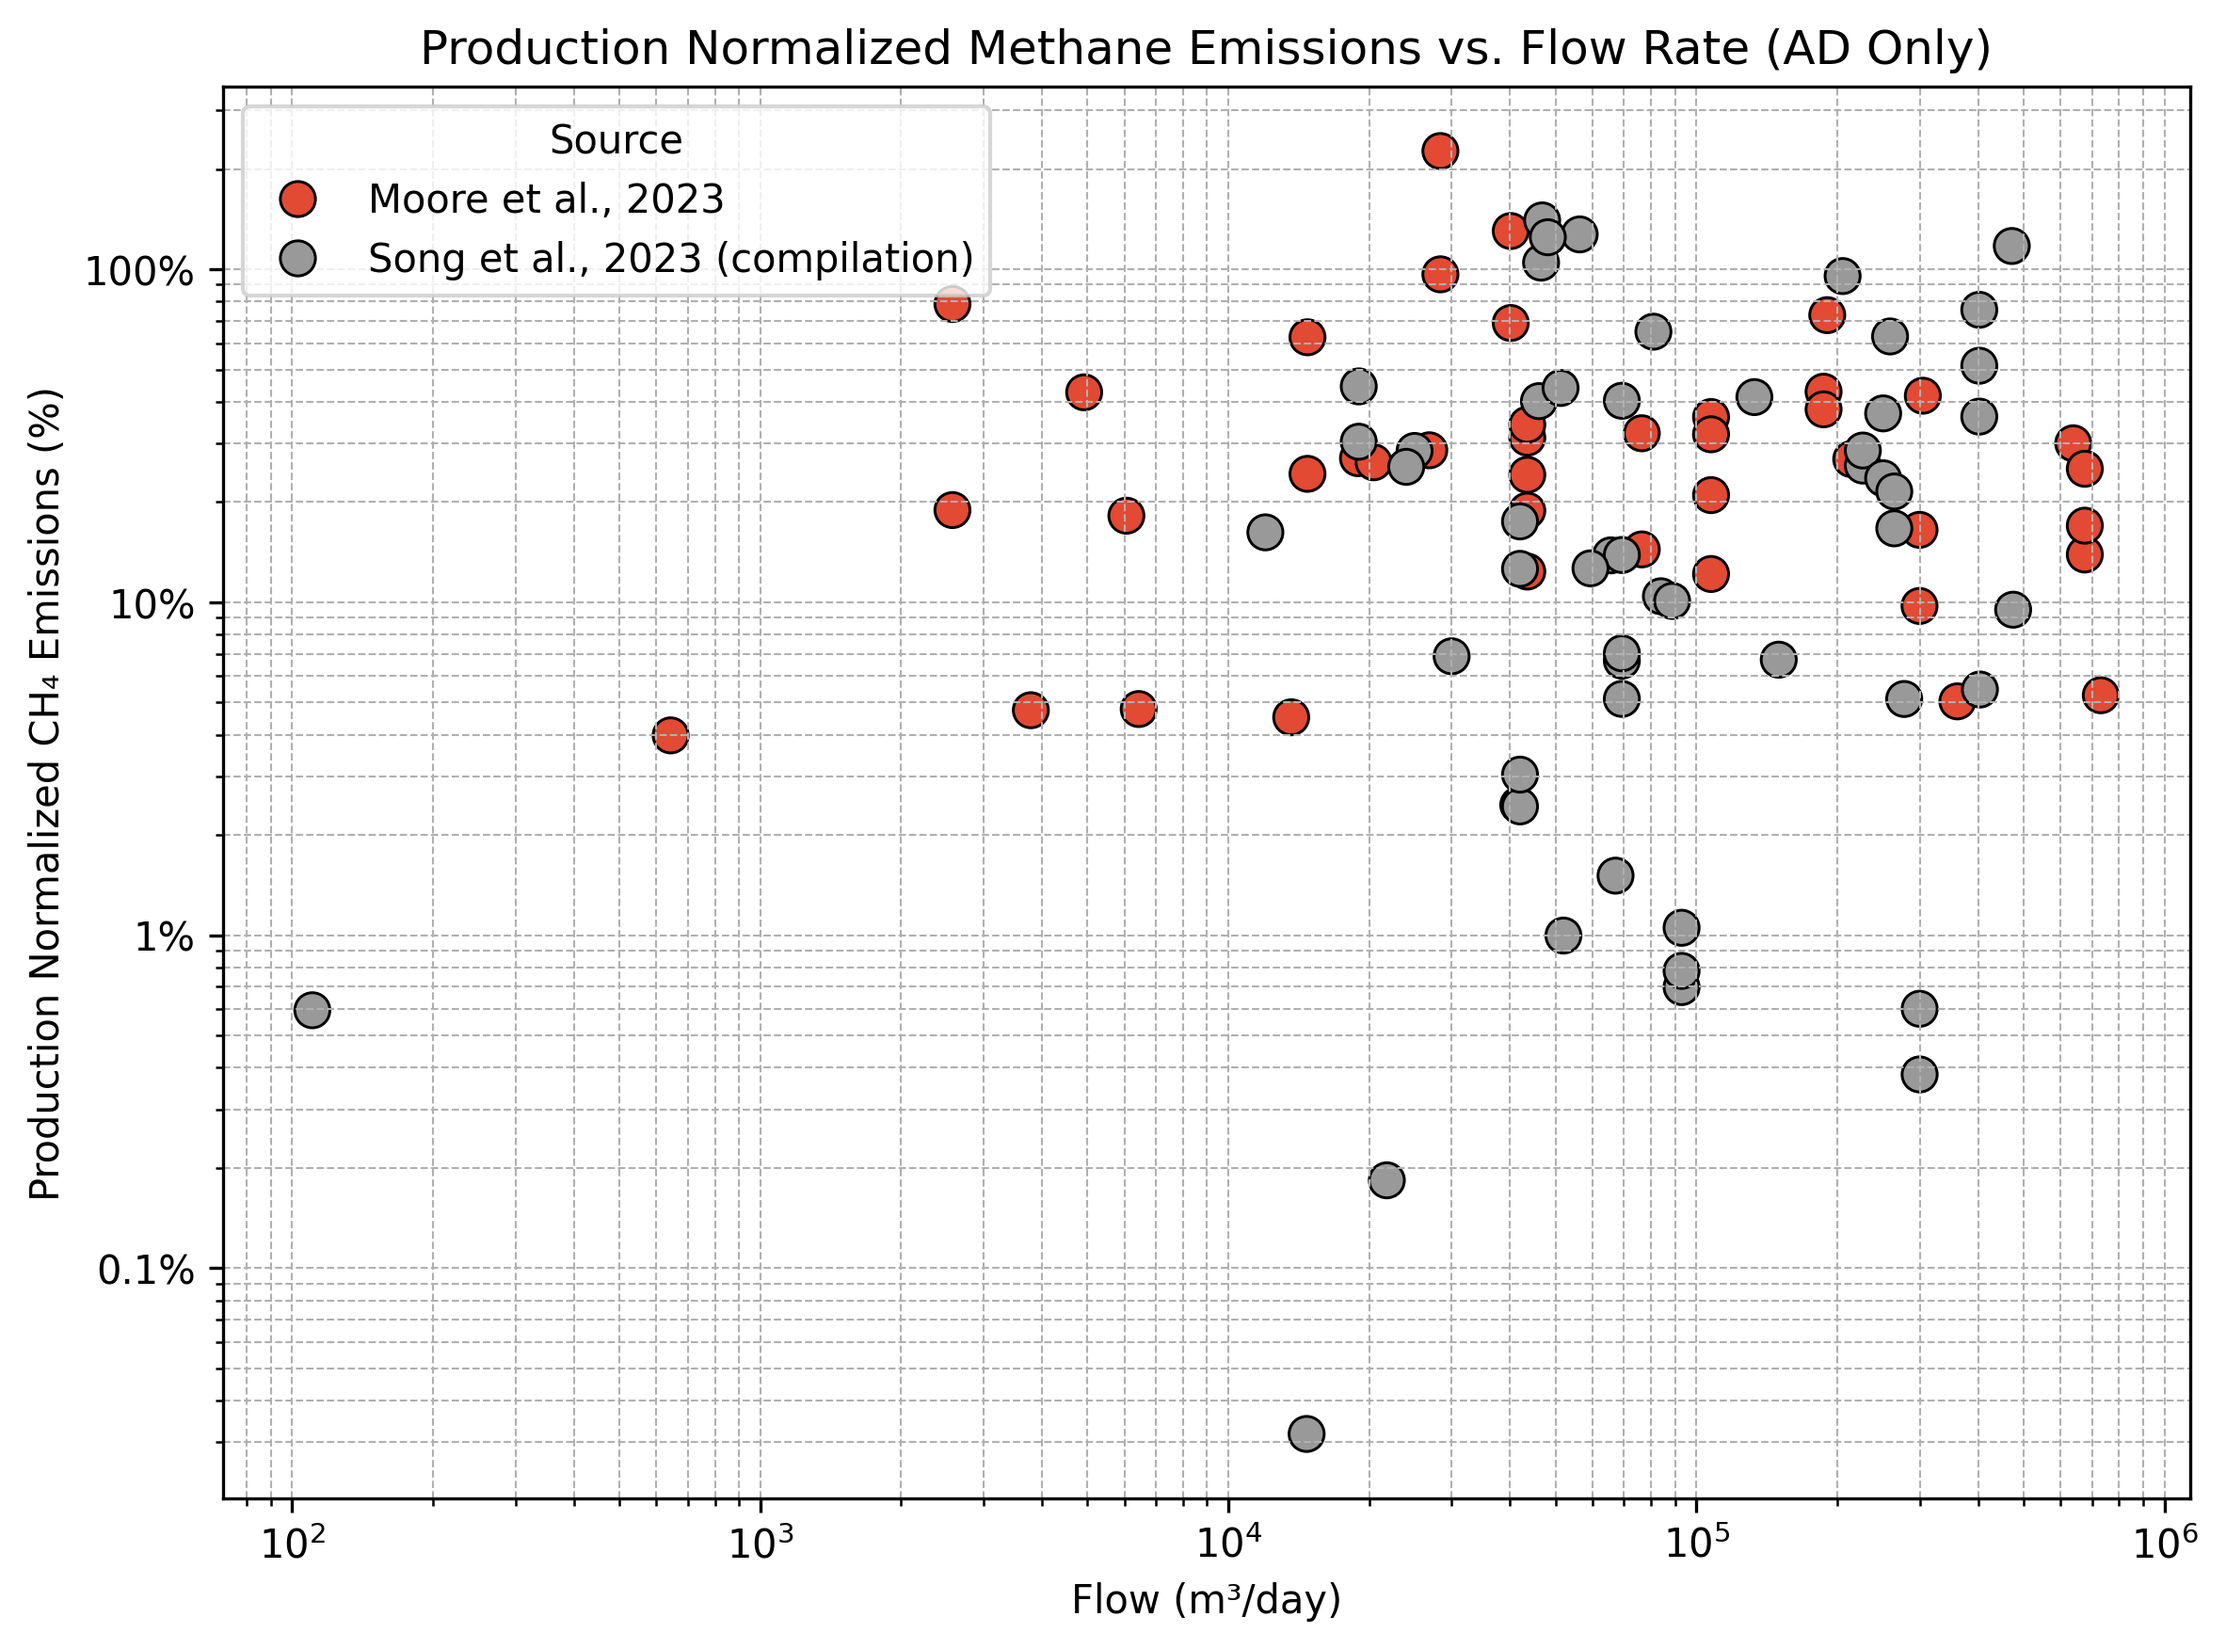
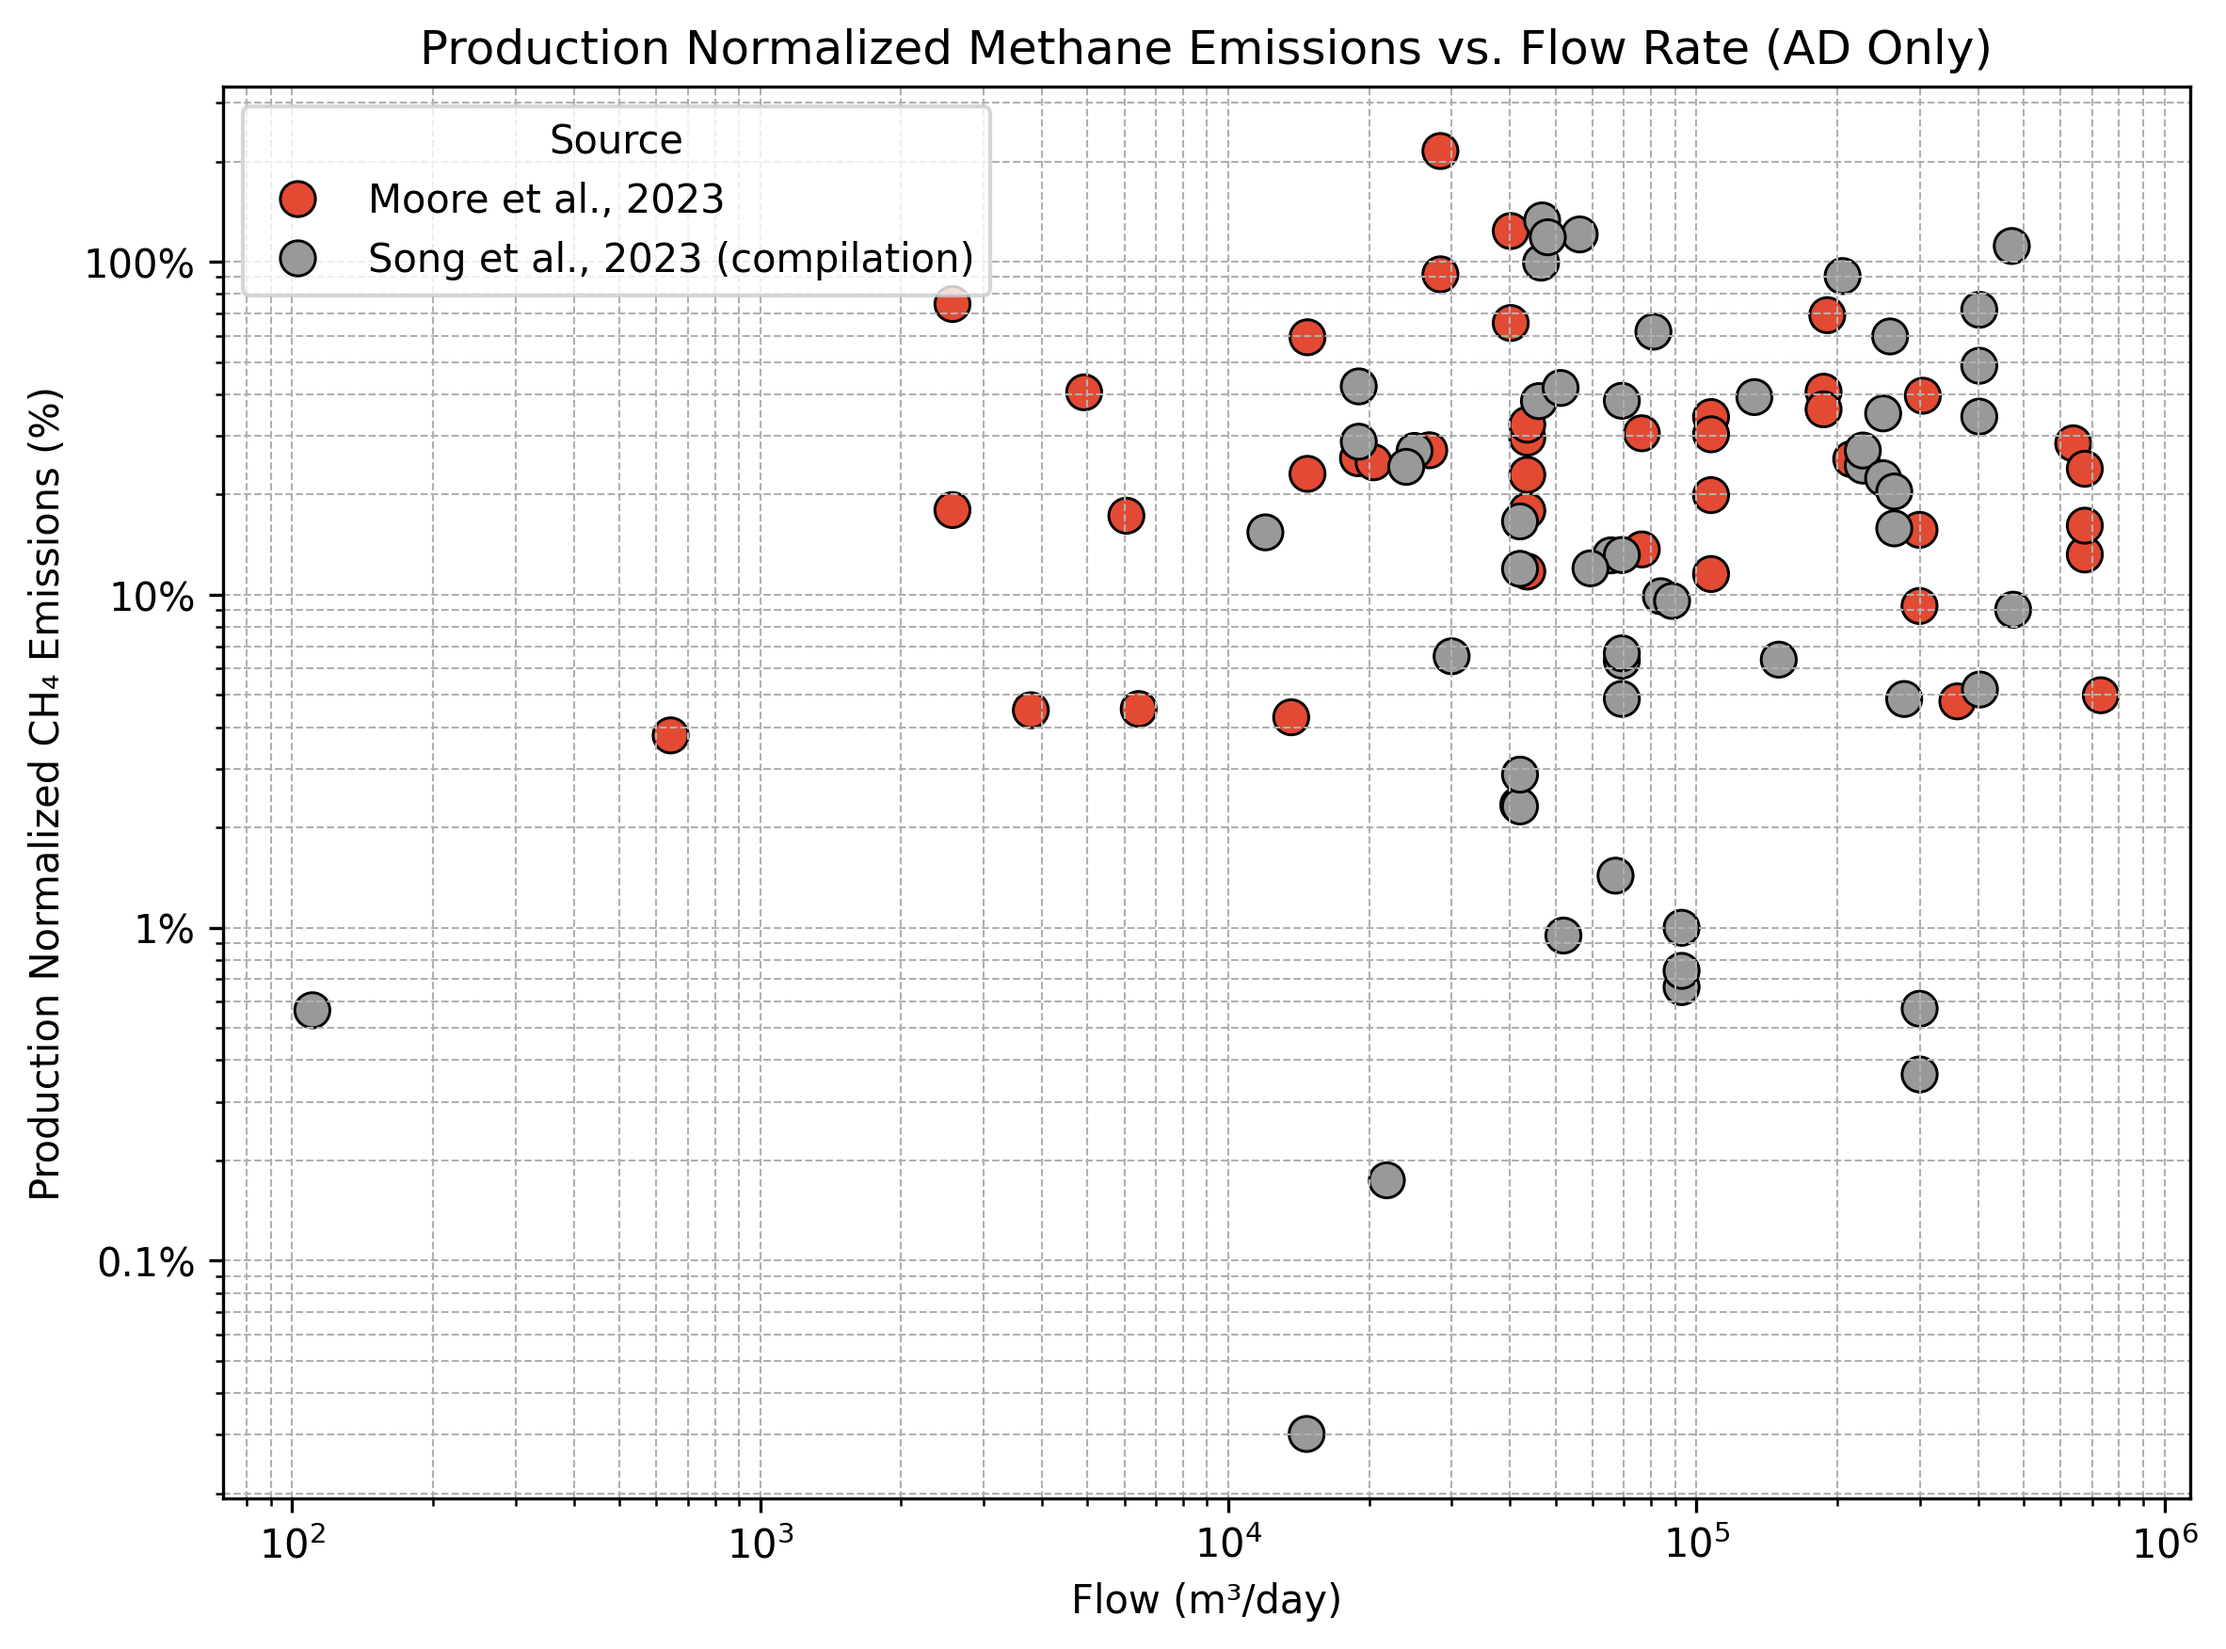
Rerun figures 2b, 2c with Chini calculations

diff --git a/test_chini_calcs.py b/test_chini_calcs.py
@@ -1,0 +1,45 @@
+#%% 
+import pandas as pd
+import pathlib
+import numpy as np
+import matplotlib.pyplot as plt
+import seaborn as sns
+from a_my_utilities import set_chini_dataset, calc_biogas_production_rate, load_ch4_emissions_data
+
+chini_data = pd.read_csv(pathlib.Path("02_clean_data", "chini_cleaned.csv"))  # or csv
+
+set_chini_dataset(
+    chini_data,
+    x_col="flow_m3_per_day",
+    y_col="methane_gen_kgh",
+    drop_negative=True
+)
+# Load the measurement dataset 
+
+measurement_data = load_ch4_emissions_data()
+
+# Calclate biogas production using both methods
+measurement_data['biogas_chini']   = calc_biogas_production_rate(measurement_data['flow_m3_per_day'], "chini_data")   # kg CH4/h
+measurement_data['biogas_tarallo'] = calc_biogas_production_rate(measurement_data['flow_m3_per_day'], "tarallo_model") # kg CH4/h
+
+
+# Plot biogas production 
+# plot measurement_data['biogas_chini'] vs measurement_data['biogas_tarallo']
+
+sns.set_style("whitegrid")
+plt.figure(figsize=(8, 6))
+plt.scatter(measurement_data['biogas_tarallo'], measurement_data['biogas_chini'])
+
+plt.xlim(0, max(measurement_data['biogas_chini'].max(), measurement_data['biogas_tarallo'].max()) * 1.05)
+plt.ylim(0, max(measurement_data['biogas_chini'].max(), measurement_data['biogas_tarallo'].max()) * 1.05)
+plt.xlabel('Tarallo Biogas Production Estimate (kg/h)')
+plt.ylabel('Chini Biogas Production Estimate (kg/h)')
+plt.title('Compare Chini and Tarallo Biogas Production Estimates for Facilities with Measurement Data')
+plt.legend()
+plt.grid(True, linestyle="--", linewidth=0.5, alpha=0.7)
+plt.tight_layout()
+plt.show()
+
+
+
+# %%

diff --git a/Fig2b_production_normalized_vs_flow.py b/Fig2b_production_normalized_vs_flow.py
@@ -5,10 +5,17 @@ import numpy as np
 import matplotlib.pyplot as plt
 import seaborn as sns
 import pathlib
-from a_my_utilities import calc_biogas_production_rate, load_ch4_emissions_with_ad_only, calculate_production_normalized_ch4
+from a_my_utilities import set_chini_dataset, calc_biogas_production_rate, load_ch4_emissions_with_ad_only, calculate_production_normalized_ch4
 import matplotlib.ticker as mtick
 
+chini_data = pd.read_csv(pathlib.Path("02_clean_data", "chini_cleaned.csv"))  # or csv
 
+set_chini_dataset(
+    chini_data,
+    x_col="flow_m3_per_day",
+    y_col="methane_gen_kgh",
+    drop_negative=True
+)
 ################# AD FACILIITIES WITH REPORTED FLOW RATE (M3/DAY) ##########################
 
 
